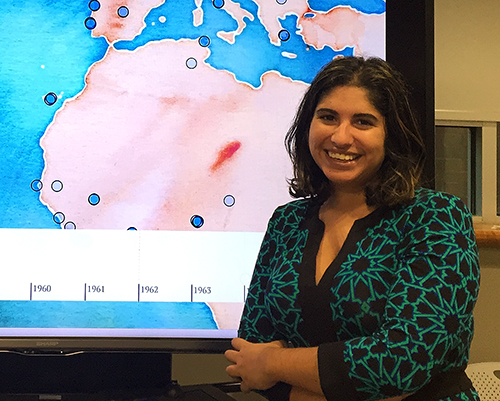
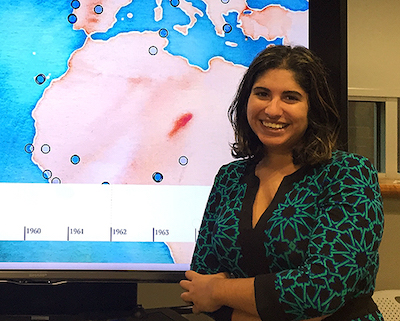
fix images

diff --git a/speakers.md b/speakers.md
@@ -10,7 +10,7 @@ We are very grateful to have two of the most important current voices of the dig
 
 Buenos Aires, Argentina
 
-<img src="/assets/gimena_rio.jpg" width="500" height="167" alt="Profile image of Gimena del Rio Riande" title="Credit: Jennifer Millar, Higher School of Economics">
+<img src="/assets/gimena_rio.jpg" width="400" height="267" alt="Profile image of Gimena del Rio Riande" title="Credit: Jennifer Millar, Higher School of Economics">
 
 Dr. del Rio is a researcher at the [*Seminario de Edicion y Crítica Textual* ](http://www.iibicrit-conicet.gov.ar/)(SECRIT-IIBICRIT) of the National Scientific and Technical Research Council (CONICET. Buenos Aires, Argentina) and External Professor at [LINHD-UNED](http://linhd.uned.es/) (Madrid, Spain) and the University of Buenos Aires. Her main academic interests deal with Digital Scholarly Edition, the use, and methodologies of scholarly digital tools as “situated practices”, and the interaction of the global and the local in the development of academic disciplines.
 
@@ -22,7 +22,7 @@ To read her full profile visit [her personal Acta Académica site](https://www.a
 
 Salem, United States of America 
 
-<img src="/assets/roopika_risam.jpg" width="400" height="301" alt="Profile image of Roopika Risam" title="Credit: William & Mary">
+<img src="/assets/roopika_risam.jpg" width="400" height="321" alt="Profile image of Roopika Risam" title="Credit: William & Mary">
 
 Dr. Risam is an Associate Professor of Secondary and Higher Education and English at Salem State University. She also serves as the Faculty Fellow for Digital Library Initiatives, Coordinator of the Graduate Certificate in Digital Studies, and Coordinator of the Combined B.A./M.Ed. in English Education. Her research interests lie at the intersections of postcolonial and African diaspora studies, humanities knowledge infrastructures, and digital humanities. The broader goal of her research is to call attention to the inequalities and biases arisen from the rapid digital knowledge production that are reproducing the print culture, and to work collaboratively with colleagues in different disciplines to redress them.
 
